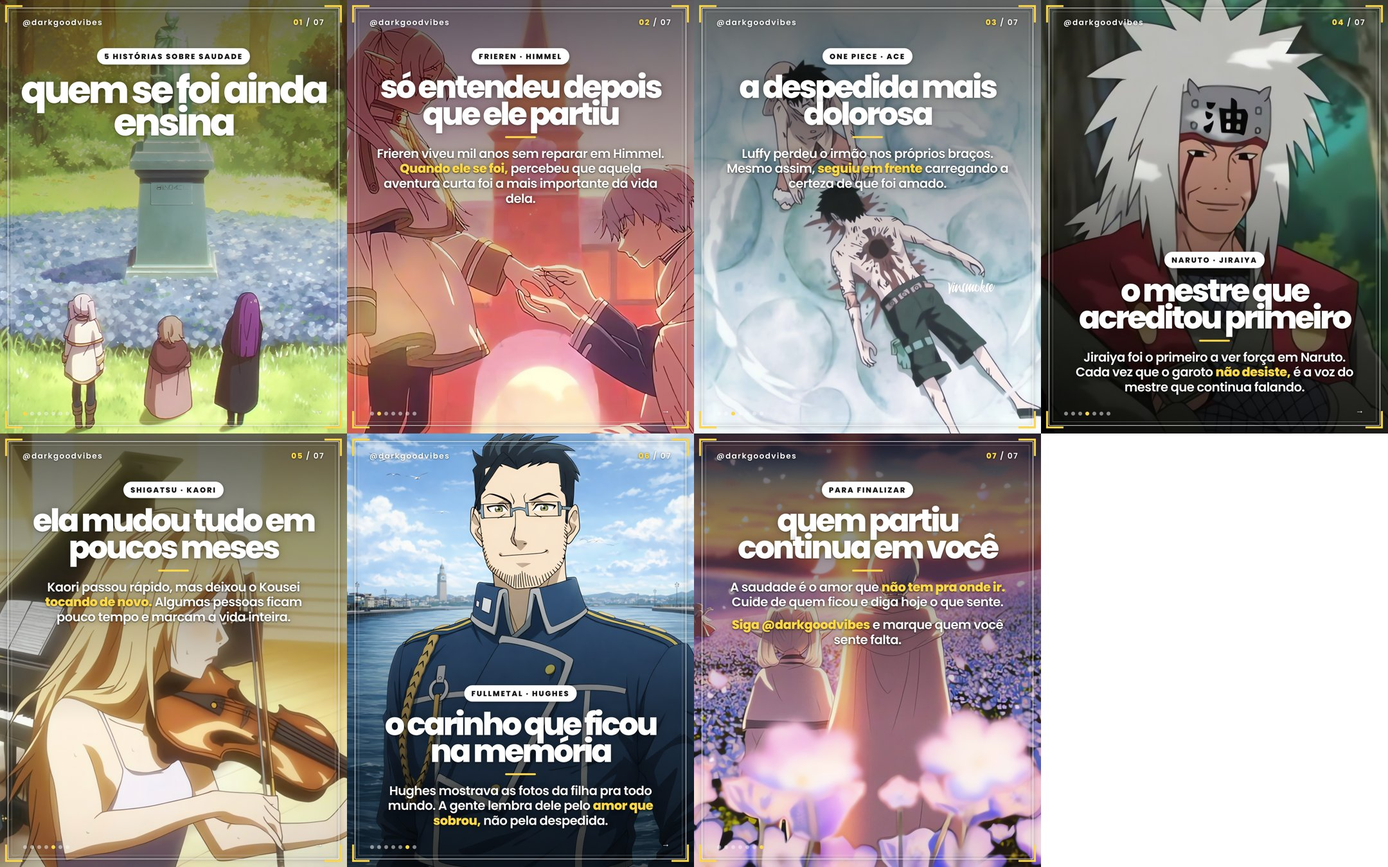
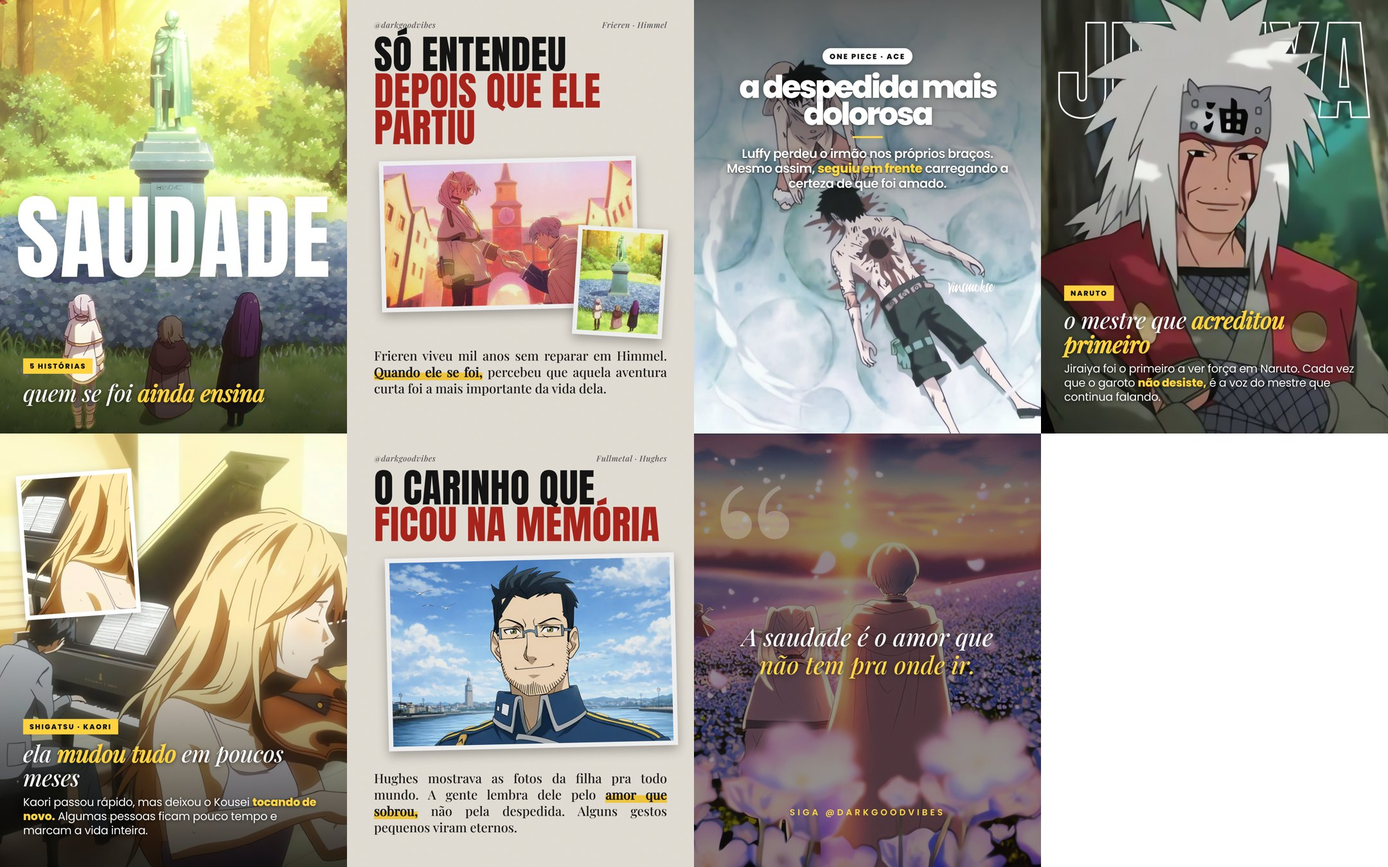
Layouts variados (fantasma, painel, quadro, frase) e rascunho 24/11 refeito
Claude-Session: https://claude.ai/code/session_01Dfr63gNG2gKdD9mBSqCAhu

diff --git a/posts/2026-11-24/carrossel.html b/posts/2026-11-24/carrossel.html
@@ -63,6 +63,32 @@ body{background:#777;display:flex;flex-direction:column;gap:40px;padding:40px;al
 .sr.rich .hl{font-size:98px}
 .sr.rich .bd{font:600 39px/1.2 Pp;letter-spacing:-.025em;margin-top:26px;padding:0 24px;text-shadow:0 2px 3px rgba(0,0,0,.6),0 0 16px rgba(0,0,0,.5)}
 .sr.rich .bd b{font-weight:800;color:#ffd23f}
+/* colagem: layouts variados (fantasma, painel, quadro, frase) */
+.gw{position:absolute;left:50%;transform:translateX(-50%);z-index:3;font:400 420px/.82 A;text-transform:uppercase;white-space:nowrap;color:#fff;letter-spacing:.01em;text-shadow:0 6px 40px rgba(0,0,0,.25)}
+.gw.ol{color:transparent;-webkit-text-stroke:5px #fff;text-shadow:none}
+.cshade{position:absolute;inset:0;z-index:2;background:linear-gradient(0deg,rgba(0,0,0,.8) 0%,rgba(0,0,0,.46) 30%,rgba(0,0,0,0) 56%)}
+.cshade.t{background:linear-gradient(180deg,rgba(0,0,0,.8) 0%,rgba(0,0,0,.46) 30%,rgba(0,0,0,0) 56%)}
+.ccap{position:absolute;left:72px;right:72px;bottom:92px;z-index:9;color:#fff}
+.ccap.t{bottom:auto;top:92px}
+.ctag{display:inline-block;background:#ffd23f;color:#111;font:800 22px Pp;letter-spacing:.16em;text-transform:uppercase;padding:8px 20px 7px;margin-bottom:20px}
+.ccap .hd{font:italic 500 72px/1.03 PF;letter-spacing:-.012em;text-shadow:0 2px 14px rgba(0,0,0,.6)}
+.ccap .bd{font:500 35px/1.26 Pp;letter-spacing:-.015em;margin-top:20px;text-shadow:0 2px 10px rgba(0,0,0,.7)}
+.ccap b{color:#ffd23f;font-weight:700}
+.cpan{background:#f1ece2;color:#151515}
+.cpan .pt{position:absolute;top:60px;left:84px;right:84px;display:flex;justify-content:space-between;font:italic 500 25px PF;letter-spacing:.04em;color:#555}
+.cpan .col{position:absolute;left:84px;right:84px;top:112px;bottom:70px;display:flex;flex-direction:column;gap:34px}
+.cpan .tt{font:400 124px/.92 A;text-transform:uppercase;letter-spacing:.005em}
+.cpan .tt b{color:#b3261e;font-weight:400}
+.fbox{position:relative;flex:none}
+.cfr{position:absolute;background:#fff;padding:14px;box-shadow:0 14px 34px rgba(0,0,0,.3);z-index:4}
+.cfr img{display:block;width:100%;height:100%;object-fit:cover}
+.cpan .tx{font:500 40px/1.27 PF;text-align:justify;hyphens:none;color:#1b1b1b}
+.cpan .tx b{font-weight:600;background:linear-gradient(transparent 56%,#ffd23f 56%)}
+.gm{mix-blend-mode:multiply!important;opacity:.35!important}
+.qm{position:absolute;top:40px;left:50px;font:400 640px/1 PF;color:rgba(255,255,255,.22);z-index:3}
+.qt{position:absolute;left:92px;right:92px;top:50%;transform:translateY(-50%);font:italic 500 76px/1.14 PF;text-align:center;color:#fff;z-index:5;text-shadow:0 3px 18px rgba(0,0,0,.6)}
+.qt b{color:#ffd23f;font-weight:500}
+.qa{position:absolute;left:0;right:0;bottom:150px;text-align:center;font:600 27px Pp;letter-spacing:.3em;text-transform:uppercase;color:#ffd23f;z-index:5}
 /* variante christversions: bloco justificado, sem cor */
 .v-cv .ln{font-size:56px;line-height:1.06;text-align:justify;text-align-last:left;letter-spacing:-.025em}
 .v-cv .ln b{color:#fff}
@@ -76,8 +102,14 @@ body{background:#777;display:flex;flex-direction:column;gap:40px;padding:40px;al
 .v-ps .ln{font:400 64px/1.08 A;text-transform:uppercase;letter-spacing:.005em}
 .v-ps .ln b{color:#ff5fa2;font-weight:400}
 .v-ps .tt{font-size:150px;line-height:.96}.v-ps .st{font:600 40px/1.2 T;text-transform:none}
-</style></head><body><section class="slide" id="s1"><img class="bg photo" src="work/img1.jpg"><div class="scrim"></div><div class="sr sr-top" data-pos="top"><div class="tag">5 histórias sobre saudade</div><div class="hl">quem se foi <b>ainda ensina</b></div></div><img class="bg fg" src="work/fg1.png" data-tops="1350,1350,1350,1350,1350,1350,1350,1350,1350,1350,1350,1350,1350,1350,1350,1350,1350,1350,1350,1350,1350,1350,1350,1350,1350,1350,1350,1350,1350,1350,1350,1350,1350,1350,1350,1350,1350,1350,1350,1350,1350,1350,1350,1350,1350,1350,1350,1350,1350,1097,1035,1023,1012,943,938,937,935,931,925,922,919,917,916,915,915,915,915,916,917,920,924,931,935,941,964,992,1002,1011,1023,1040,1051,1095,1350,1350,1350,1350,1350,1350,1350,1350,1350,1350,1350,1350,1350,1350,1350,1350,1350,1350,1350,1350,1350,1350,1350,1350,1350,1350,1350,1350,1350,1350,1350,1350,1350,1350,1350,1350,1350,1350,1350,1350,1350,1350,1350,1350,1350,1350,1350,1350,1350,1350,1350,1350,1350,1350,1350,1350,1350,1350,1350,1350,1350,1350,1350,1350,1350,1350,1350,1350,1350,1350,1350,1350,1350,1350,1350,1350,1350,1350,1350,1350,1350,1350,1350,1350,1350,1350,1350,1350,1350,1350,1350,1350,1350,1350,1350,1350,1350,1350,1350,1350,1350,1350,1350,1350,1350,1350,1350,1350,1350,1350,1350,1350,1350,1350,1350,1350,1350,1350,1350,1350,1350,1350,1350,1350,1350,1350,1350,1350,1350,1350,1350,1350,1350,1350,1350,1350,1350,1350,1350,1350,1350,1350,1350,1350,1350,1350,1350,1350,1350,1350,1350,1350,1350,1350,1350,1350,1350,1350,1350,1350,1350,1350,1350,1350,1350,1350,1350,1350,1350,1350,1350,1350,1350,1350,1350,1350,1350,1350,1350,1350,1350,1350,1350,1350,1350,1350,1350,1350"><div class="dec"><div class="fr"></div><div class="fr2"></div><div class="cn tl"></div><div class="cn tr"></div><div class="cn bl"></div><div class="cn br"></div><div class="tp"><span>@darkgoodvibes</span><span class="n"><b>01</b> / 07</span></div><div class="dots"><i class="on"></i><i></i><i></i><i></i><i></i><i></i><i></i></div><div class="nx">→</div></div><div class="grain"></div></section><section class="slide" id="s2"><img class="bg photo" src="work/img2.jpg"><div class="scrim"></div><div class="sr sr-top rich" data-pos="top"><div class="tag">Frieren · Himmel</div><div class="hl">só entendeu <b>depois que ele partiu</b></div><div class="dv"></div><div class="bd"><p>Frieren viveu mil anos sem reparar em Himmel. <b>Quando ele se foi,</b> percebeu que aquela aventura curta foi a mais importante da vida dela.</p></div></div><img class="bg fg" src="work/fg2.png" data-tops="195,186,181,171,165,158,151,145,141,135,130,126,123,120,115,111,106,101,97,96,95,79,80,82,80,81,87,94,101,99,97,96,95,94,93,92,91,90,89,89,88,87,87,86,86,85,85,86,86,87,87,88,89,90,92,93,95,97,99,101,104,106,108,111,114,118,121,125,129,133,138,143,149,154,161,172,194,198,202,206,210,215,220,225,230,237,244,255,640,645,648,652,655,660,724,727,729,732,734,737,740,742,742,740,739,738,738,738,741,744,746,749,751,754,757,759,761,763,765,767,769,771,772,774,776,778,781,785,791,799,803,806,809,812,814,817,820,823,825,828,830,832,833,833,833,832,831,829,827,827,828,830,830,830,830,830,830,829,828,828,827,827,826,825,825,825,826,826,826,826,827,828,830,831,832,834,836,837,838,839,840,840,841,844,851,859,869,879,889,899,907,915,921,927,930,930,927,925,927,633,618,609,601,594,589,585,583,580,577,574,572,576,570,565,561,557,552,548,545,544,542,541,544,548,540,534,531,529,527,525,524,523,521,520,520,520,518,513,513,513,512,512,512,513,513,514,515,516,515,515,514,514,514,514,515,515,516,524,527,529,531,533,536,538,541,544,548,552,556,560"><div class="dec"><div class="fr"></div><div class="fr2"></div><div class="cn tl"></div><div class="cn tr"></div><div class="cn bl"></div><div class="cn br"></div><div class="tp"><span>@darkgoodvibes</span><span class="n"><b>02</b> / 07</span></div><div class="dots"><i></i><i class="on"></i><i></i><i></i><i></i><i></i><i></i></div><div class="nx">→</div></div><div class="grain"></div></section><section class="slide" id="s3"><img class="bg photo" src="work/img3.jpg"><div class="scrim"></div><div class="sr sr-top rich" data-pos="top"><div class="tag">One Piece · Ace</div><div class="hl">a despedida <b>mais dolorosa</b></div><div class="dv"></div><div class="bd"><p>Luffy perdeu o irmão nos próprios braços. Mesmo assim, <b>seguiu em frente</b> carregando a certeza de que foi amado.</p></div></div><img class="bg fg" src="work/fg3.png" data-tops="1350,1350,1350,1350,1350,1350,1350,1350,1350,1350,1350,1350,1350,1350,1350,1350,1350,1350,1350,1350,1350,1350,1350,1350,1350,1350,1350,1350,1350,1350,1350,1350,1350,1350,1350,1350,1350,1350,1350,1350,1350,1350,1350,1350,1350,1350,1350,1350,1350,1350,1350,1350,1350,1350,335,241,229,222,217,213,209,205,202,199,197,195,194,193,192,192,192,192,192,193,194,196,198,201,204,208,208,203,198,194,191,187,203,203,202,202,201,201,201,202,208,209,209,209,210,210,211,212,212,239,241,244,247,249,269,278,287,295,302,308,315,321,328,335,342,348,355,361,369,381,403,426,449,456,460,463,467,471,475,478,482,484,485,488,491,502,524,631,630,630,673,673,673,673,673,673,673,673,673,673,674,675,676,678,680,682,685,688,692,696,699,700,701,701,702,703,704,706,707,709,711,714,716,719,721,724,727,730,733,736,739,741,743,745,746,747,748,750,751,753,754,755,757,758,760,763,765,767,769,772,774,777,779,781,783,785,786,788,790,792,794,796,799,801,804,807,810,813,816,820,825,832,845,1065,1093,898,904,885,885,890,1129,1135,1141,1147,1153,1159,1164,1170,1176,1181,1187,1193,1198,1204,1211,1216,1219,1224,1229,1234,1238,1242,1245,1248,1250,1252,1254,1255,1257,1259,1260,1262,1264,1265,1267,1270"><div class="dec"><div class="fr"></div><div class="fr2"></div><div class="cn tl"></div><div class="cn tr"></div><div class="cn bl"></div><div class="cn br"></div><div class="tp"><span>@darkgoodvibes</span><span class="n"><b>03</b> / 07</span></div><div class="dots"><i></i><i></i><i class="on"></i><i></i><i></i><i></i><i></i></div><div class="nx">→</div></div><div class="grain"></div></section><section class="slide" id="s4"><img class="bg photo" src="work/img4.jpg"><div class="scrim sb"></div><div class="sr sr-bottom rich" data-pos="bottom"><div class="tag">Naruto · Jiraiya</div><div class="hl">o mestre que <b>acreditou primeiro</b></div><div class="dv"></div><div class="bd"><p>Jiraiya foi o primeiro a ver força em Naruto. Cada vez que o garoto <b>não desiste,</b> é a voz do mestre que continua falando.</p></div></div><img class="bg fg" src="work/fg4.png" data-tops="802,798,794,792,788,784,781,779,777,775,776,775,774,773,772,770,769,768,767,700,700,763,762,701,700,699,697,696,695,694,693,692,692,693,415,407,237,234,231,229,226,224,221,218,216,213,211,208,206,204,202,200,198,195,193,192,189,187,185,183,181,179,177,175,70,70,70,70,71,71,71,71,70,70,70,71,70,70,70,70,71,71,71,72,73,73,74,74,74,75,76,76,77,78,0,0,0,2,4,6,8,10,11,12,14,15,17,19,20,23,25,28,30,33,35,38,40,42,45,47,51,54,59,61,57,44,31,18,7,0,0,0,0,0,0,0,0,0,0,0,0,2,11,20,31,41,52,60,62,60,57,54,51,48,45,43,40,37,34,31,28,26,23,20,18,16,13,11,9,7,4,2,0,0,0,0,103,102,101,100,100,99,98,97,96,95,94,93,92,92,90,90,88,87,87,85,85,84,83,82,81,81,79,167,167,166,166,166,166,166,165,165,165,165,166,166,167,167,168,168,292,297,303,308,314,320,831,833,835,837,839,841,843,845,847,850,852,854,856,858,860,862,864,866,868,871,874,881,955,963,972,981,992,1003,1015,1026,1038,1052,1071,1084,1092,1099,1104,1109,1115,1120,1127,1135,1143,1150"><div class="dec"><div class="fr"></div><div class="fr2"></div><div class="cn tl"></div><div class="cn tr"></div><div class="cn bl"></div><div class="cn br"></div><div class="tp"><span>@darkgoodvibes</span><span class="n"><b>04</b> / 07</span></div><div class="dots"><i></i><i></i><i></i><i class="on"></i><i></i><i></i><i></i></div><div class="nx">→</div></div><div class="grain"></div></section><section class="slide" id="s5"><img class="bg photo" src="work/img5.jpg"><div class="scrim"></div><div class="sr sr-top rich" data-pos="top"><div class="tag">Shigatsu · Kaori</div><div class="hl">ela <b>mudou tudo</b> em poucos meses</div><div class="dv"></div><div class="bd"><p>Kaori passou rápido, mas deixou o Kousei <b>tocando de novo.</b> Algumas pessoas ficam pouco tempo e marcam a vida inteira.</p></div></div><img class="bg fg" src="work/fg5.png" data-tops="467,463,459,454,450,446,441,437,433,429,425,421,416,412,407,403,399,395,391,387,382,378,374,369,365,361,357,352,348,344,340,335,331,327,323,318,314,310,306,302,298,293,289,285,280,276,272,268,264,259,255,251,246,242,238,234,230,225,221,217,213,209,204,200,196,192,187,183,179,175,171,166,162,157,153,149,145,141,137,132,128,124,120,116,111,107,103,98,94,90,85,80,74,70,66,62,57,55,55,55,56,56,57,58,58,58,59,60,61,61,61,62,62,63,63,64,64,65,66,66,66,67,67,68,68,69,69,70,70,71,71,72,72,73,74,74,74,75,75,76,76,77,79,241,243,245,247,250,252,254,257,259,261,263,265,267,269,271,272,274,276,278,279,281,282,284,286,287,290,292,296,299,303,305,306,307,308,308,309,310,311,311,312,313,314,315,316,317,318,319,321,323,325,329,435,433,431,432,452,494,530,563,569,569,567,740,779,818,858,864,866,867,869,870,870,869,867,844,844,846,849,852,856,858,861,862,864,865,866,867,868,868,869,870,871,872,873,875,876,877,879,881,882,884,886,888,891,893,897,900,903,907,911,915,920,924,929,934,939,945,952,960,970,981,992,996,999,1002,1004,1006"><div class="dec"><div class="fr"></div><div class="fr2"></div><div class="cn tl"></div><div class="cn tr"></div><div class="cn bl"></div><div class="cn br"></div><div class="tp"><span>@darkgoodvibes</span><span class="n"><b>05</b> / 07</span></div><div class="dots"><i></i><i></i><i></i><i></i><i class="on"></i><i></i><i></i></div><div class="nx">→</div></div><div class="grain"></div></section><section class="slide" id="s6"><img class="bg photo" src="work/img6.jpg"><div class="scrim sb"></div><div class="sr sr-bottom rich" data-pos="bottom"><div class="tag">Fullmetal · Hughes</div><div class="hl">o carinho que <b>ficou na memória</b></div><div class="dv"></div><div class="bd"><p>Hughes mostrava as fotos da filha pra todo mundo. A gente lembra dele pelo <b>amor que sobrou,</b> não pela despedida.</p></div></div><img class="bg fg" src="work/fg6.png" data-tops="1350,1350,1350,1350,1350,1350,1350,1350,1350,1350,1350,1350,1350,1350,1350,1350,1350,1350,1350,1350,1350,1350,1350,1194,1176,1158,1136,1108,879,871,864,810,767,743,726,712,700,689,680,671,666,662,659,654,650,648,645,641,638,635,632,628,624,622,620,618,617,616,616,616,617,616,614,613,612,611,611,609,606,604,602,600,599,597,596,596,595,595,595,595,596,596,595,593,589,585,583,581,580,579,577,576,575,574,574,575,256,232,51,56,59,63,65,67,70,70,41,36,32,28,24,21,17,14,11,7,4,0,0,0,0,0,0,0,0,0,0,0,1,0,0,0,0,0,0,0,0,0,0,0,0,0,0,0,0,0,0,13,13,12,11,10,10,9,9,8,8,8,7,7,7,7,0,0,0,33,34,35,36,37,38,40,42,44,46,48,51,95,101,109,117,281,498,509,520,531,538,542,547,550,551,552,553,555,556,556,554,554,555,557,558,559,561,563,564,566,568,569,571,575,577,579,580,580,581,583,584,582,581,581,588,589,590,591,591,592,594,594,595,596,596,596,600,600,602,602,600,599,600,600,602,603,604,605,607,609,610,612,616,622,625,628,631,637,641,644,647,651,652,652,651,652,653,653,654,656,660,666,673,681"><div class="dec"><div class="fr"></div><div class="fr2"></div><div class="cn tl"></div><div class="cn tr"></div><div class="cn bl"></div><div class="cn br"></div><div class="tp"><span>@darkgoodvibes</span><span class="n"><b>06</b> / 07</span></div><div class="dots"><i></i><i></i><i></i><i></i><i></i><i class="on"></i><i></i></div><div class="nx">→</div></div><div class="grain"></div></section><section class="slide" id="s7"><img class="bg photo" src="work/img7.jpg"><div class="scrim"></div><div class="sr sr-top rich" data-pos="top"><div class="tag">Para finalizar</div><div class="hl">quem partiu <b>continua em você</b></div><div class="dv"></div><div class="bd"><p>A saudade é o amor que <b>não tem pra onde ir.</b> Cuide de quem ficou e diga hoje o que sente.</p><p><b>Siga @darkgoodvibes</b> e marque quem você sente falta.</p></div></div><img class="bg fg" src="work/fg7.png" data-tops="872,873,859,858,859,857,856,867,868,869,870,871,873,873,875,875,881,881,888,898,902,906,908,915,916,961,984,965,983,991,981,992,989,1009,1007,1004,1001,916,892,871,855,845,835,824,610,611,611,612,612,612,613,613,613,614,612,596,575,557,545,541,539,539,541,543,546,546,543,541,540,539,538,537,536,536,535,535,535,535,535,535,535,536,537,538,540,543,545,543,540,538,536,535,535,537,542,552,565,586,612,613,613,612,612,611,610,610,609,608,809,816,807,792,776,752,705,597,583,579,576,572,567,561,555,549,543,538,535,534,533,532,532,531,530,527,525,413,399,388,380,373,367,362,358,354,351,349,347,345,343,342,341,340,340,340,340,340,340,340,340,340,341,342,343,345,347,349,352,355,359,363,367,371,377,384,393,407,530,531,531,532,532,533,534,535,536,537,541,546,557,570,575,576,578,581,602,617,762,784,801,832,852,865,869,869,867,864,862,859,854,849,845,841,840,843,848,852,856,860,862,862,862,864,866,871,875,878,882,886,889,891,893,893,892,892,892,893,892,891,891,890,888,886,883,882,880,877,871,868,855,850,845,844,845,853,857,861,865,865,863,863,864,865,867,868,869,869,871,874,901,901"><div class="dec"><div class="fr"></div><div class="fr2"></div><div class="cn tl"></div><div class="cn tr"></div><div class="cn bl"></div><div class="cn br"></div><div class="tp"><span>@darkgoodvibes</span><span class="n"><b>07</b> / 07</span></div><div class="dots"><i></i><i></i><i></i><i></i><i></i><i></i><i class="on"></i></div></div><div class="grain"></div></section><script>
-document.fonts.ready.then(()=>{document.querySelectorAll('section').forEach(sec=>{
+</style></head><body><section class="slide" id="s1"><img class="bg photo" src="work/img1.jpg"><div class="cshade"></div><div class="gw">saudade</div><img class="bg fg" src="work/fg1.png" data-tops="1350,1350,1350,1350,1350,1350,1350,1350,1350,1350,1350,1350,1350,1350,1350,1350,1350,1350,1350,1350,1350,1350,1350,1350,1350,1350,1350,1350,1350,1350,1350,1350,1350,1350,1350,1350,1350,1350,1350,1350,1350,1350,1350,1350,1350,1350,1350,1350,1350,1097,1035,1023,1012,943,938,937,935,931,925,922,919,917,916,915,915,915,915,916,917,920,924,931,935,941,964,992,1002,1011,1023,1040,1051,1095,1350,1350,1350,1350,1350,1350,1350,1350,1350,1350,1350,1350,1350,1350,1350,1350,1350,1350,1350,1350,1350,1350,1350,1350,1350,1350,1350,1350,1350,1350,1350,1350,1350,1350,1350,1350,1350,1350,1350,1350,1350,1350,1350,1350,1350,1350,1350,1350,1350,1350,1350,1350,1350,1350,1350,1350,1350,1350,1350,1350,1350,1350,1350,1350,1350,1350,1350,1350,1350,1350,1350,1350,1350,1350,1350,1350,1350,1350,1350,1350,1350,1350,1350,1350,1350,1350,1350,1350,1350,1350,1350,1350,1350,1350,1350,1350,1350,1350,1350,1350,1350,1350,1350,1350,1350,1350,1350,1350,1350,1350,1350,1350,1350,1350,1350,1350,1350,1350,1350,1350,1350,1350,1350,1350,1350,1350,1350,1350,1350,1350,1350,1350,1350,1350,1350,1350,1350,1350,1350,1350,1350,1350,1350,1350,1350,1350,1350,1350,1350,1350,1350,1350,1350,1350,1350,1350,1350,1350,1350,1350,1350,1350,1350,1350,1350,1350,1350,1350,1350,1350,1350,1350,1350,1350,1350,1350,1350,1350,1350,1350,1350,1350,1350,1350,1350,1350,1350,1350"><div class="ccap"><div class="ctag">5 histórias</div><div class="hd">quem se foi <b>ainda ensina</b></div></div><div class="grain"></div></section><section class="slide cpan" id="s2"><div class="pt"><span>@darkgoodvibes</span><span>Frieren · Himmel</span></div><div class="col"><div class="tt">só entendeu <b>depois que ele partiu</b></div><div class="fbox" style="height:560px"><div class="cfr" style="left:20px;top:6px;width:800px;height:470px;transform:rotate(-1.3deg)"><img src="work/p2a.jpg"></div><div class="cfr" style="right:6px;top:220px;width:280px;height:340px;transform:rotate(3.5deg)"><img src="work/p2b.jpg"></div></div><div class="tx">Frieren viveu mil anos sem reparar em Himmel. <b>Quando ele se foi,</b> percebeu que aquela aventura curta foi a mais importante da vida dela.</div></div><div class="grain gm"></div></section><section class="slide" id="s3"><img class="bg photo" src="work/img3.jpg"><div class="scrim"></div><div class="sr sr-top rich" data-pos="top"><div class="tag">One Piece · Ace</div><div class="hl">a despedida <b>mais dolorosa</b></div><div class="dv"></div><div class="bd"><p>Luffy perdeu o irmão nos próprios braços. Mesmo assim, <b>seguiu em frente</b> carregando a certeza de que foi amado.</p></div></div><img class="bg fg" src="work/fg3.png" data-tops="1350,1350,1350,1350,1350,1350,1350,1350,1350,1350,1350,1350,1350,1350,1350,1350,1350,1350,1350,1350,1350,1350,1350,1350,1350,1350,1350,1350,1350,1350,1350,1350,1350,1350,1350,1350,1350,1350,1350,1350,1350,1350,1350,1350,1350,1350,1350,1350,1350,1350,1350,1350,1350,1350,335,241,229,222,217,213,209,205,202,199,197,195,194,193,192,192,192,192,192,193,194,196,198,201,204,208,208,203,198,194,191,187,203,203,202,202,201,201,201,202,208,209,209,209,210,210,211,212,212,239,241,244,247,249,269,278,287,295,302,308,315,321,328,335,342,348,355,361,369,381,403,426,449,456,460,463,467,471,475,478,482,484,485,488,491,502,524,631,630,630,673,673,673,673,673,673,673,673,673,673,674,675,676,678,680,682,685,688,692,696,699,700,701,701,702,703,704,706,707,709,711,714,716,719,721,724,727,730,733,736,739,741,743,745,746,747,748,750,751,753,754,755,757,758,760,763,765,767,769,772,774,777,779,781,783,785,786,788,790,792,794,796,799,801,804,807,810,813,816,820,825,832,845,1065,1093,898,904,885,885,890,1129,1135,1141,1147,1153,1159,1164,1170,1176,1181,1187,1193,1198,1204,1211,1216,1219,1224,1229,1234,1238,1242,1245,1248,1250,1252,1254,1255,1257,1259,1260,1262,1264,1265,1267,1270"><div class="grain"></div></section><section class="slide" id="s4"><img class="bg photo" src="work/img4.jpg"><div class="cshade"></div><div class="gw ol">jiraiya</div><img class="bg fg" src="work/fg4.png" data-tops="802,798,794,792,788,784,781,779,777,775,776,775,774,773,772,770,769,768,767,700,700,763,762,701,700,699,697,696,695,694,693,692,692,693,415,407,237,234,231,229,226,224,221,218,216,213,211,208,206,204,202,200,198,195,193,192,189,187,185,183,181,179,177,175,70,70,70,70,71,71,71,71,70,70,70,71,70,70,70,70,71,71,71,72,73,73,74,74,74,75,76,76,77,78,0,0,0,2,4,6,8,10,11,12,14,15,17,19,20,23,25,28,30,33,35,38,40,42,45,47,51,54,59,61,57,44,31,18,7,0,0,0,0,0,0,0,0,0,0,0,0,2,11,20,31,41,52,60,62,60,57,54,51,48,45,43,40,37,34,31,28,26,23,20,18,16,13,11,9,7,4,2,0,0,0,0,103,102,101,100,100,99,98,97,96,95,94,93,92,92,90,90,88,87,87,85,85,84,83,82,81,81,79,167,167,166,166,166,166,166,165,165,165,165,166,166,167,167,168,168,292,297,303,308,314,320,831,833,835,837,839,841,843,845,847,850,852,854,856,858,860,862,864,866,868,871,874,881,955,963,972,981,992,1003,1015,1026,1038,1052,1071,1084,1092,1099,1104,1109,1115,1120,1127,1135,1143,1150"><div class="ccap"><div class="ctag">Naruto</div><div class="hd">o mestre que <b>acreditou primeiro</b></div><div class="bd">Jiraiya foi o primeiro a ver força em Naruto. Cada vez que o garoto <b>não desiste,</b> é a voz do mestre que continua falando.</div></div><div class="grain"></div></section><section class="slide" id="s5"><img class="bg photo" src="work/img5.jpg"><div class="cshade"></div><div class="cfr" style="top:120px;left:64px;width:360px;height:450px;transform:rotate(-4deg);z-index:6"><img src="work/q5.jpg"></div><div class="ccap"><div class="ctag">Shigatsu · Kaori</div><div class="hd">ela <b>mudou tudo</b> em poucos meses</div><div class="bd">Kaori passou rápido, mas deixou o Kousei <b>tocando de novo.</b> Algumas pessoas ficam pouco tempo e marcam a vida inteira.</div></div><div class="grain"></div></section><section class="slide cpan" id="s6"><div class="pt"><span>@darkgoodvibes</span><span>Fullmetal · Hughes</span></div><div class="col"><div class="tt">o carinho que <b>ficou na memória</b></div><div class="fbox" style="height:640px"><div class="cfr" style="left:40px;top:6px;width:900px;height:600px;transform:rotate(-1.3deg)"><img src="work/p6a.jpg"></div></div><div class="tx">Hughes mostrava as fotos da filha pra todo mundo. A gente lembra dele pelo <b>amor que sobrou,</b> não pela despedida. Alguns gestos pequenos viram eternos.</div></div><div class="grain gm"></div></section><section class="slide" id="s7"><img class="bg photo" src="work/img7.jpg" style="filter:brightness(.52) saturate(.9)"><div class="qm">&ldquo;</div><div class="qt">A saudade é o amor que <b>não tem pra onde ir.</b></div><div class="qa">Siga @darkgoodvibes</div><div class="grain"></div></section><script>
+document.fonts.ready.then(()=>{document.querySelectorAll('.gw').forEach(g=>{
+ const sec=g.closest('section'), fg=sec.querySelector('.fg'); let fs=420; g.style.fontSize=fs+'px';
+ fs=Math.max(170,Math.min(600,fs*980/g.offsetWidth)); g.style.fontSize=fs+'px';
+ const h=g.offsetHeight; let top=200;
+ if(fg){const tp=fg.dataset.tops.split(',').map(Number).slice(38,232); const ct=Math.min(...tp); top=Math.max(80,Math.min(620,ct-h*0.5));}
+ g.style.top=top+'px';});
+ document.querySelectorAll('section').forEach(sec=>{
  const fg=sec.querySelector('.fg'), tx=sec.querySelector('.sr'); if(!fg||!tx) return;
  if(tx.dataset.pos!=='top'){fg.remove();return;}
  const tops=fg.dataset.tops.split(',').map(Number);

diff --git a/tools/build.py b/tools/build.py
@@ -167,6 +167,32 @@ body{background:#777;display:flex;flex-direction:column;gap:40px;padding:40px;al
 .sr.rich .hl{font-size:98px}
 .sr.rich .bd{font:600 39px/1.2 Pp;letter-spacing:-.025em;margin-top:26px;padding:0 24px;text-shadow:0 2px 3px rgba(0,0,0,.6),0 0 16px rgba(0,0,0,.5)}
 .sr.rich .bd b{font-weight:800;color:#ffd23f}
+/* colagem: layouts variados (fantasma, painel, quadro, frase) */
+.gw{position:absolute;left:50%;transform:translateX(-50%);z-index:3;font:400 420px/.82 A;text-transform:uppercase;white-space:nowrap;color:#fff;letter-spacing:.01em;text-shadow:0 6px 40px rgba(0,0,0,.25)}
+.gw.ol{color:transparent;-webkit-text-stroke:5px #fff;text-shadow:none}
+.cshade{position:absolute;inset:0;z-index:2;background:linear-gradient(0deg,rgba(0,0,0,.8) 0%,rgba(0,0,0,.46) 30%,rgba(0,0,0,0) 56%)}
+.cshade.t{background:linear-gradient(180deg,rgba(0,0,0,.8) 0%,rgba(0,0,0,.46) 30%,rgba(0,0,0,0) 56%)}
+.ccap{position:absolute;left:72px;right:72px;bottom:92px;z-index:9;color:#fff}
+.ccap.t{bottom:auto;top:92px}
+.ctag{display:inline-block;background:#ffd23f;color:#111;font:800 22px Pp;letter-spacing:.16em;text-transform:uppercase;padding:8px 20px 7px;margin-bottom:20px}
+.ccap .hd{font:italic 500 72px/1.03 PF;letter-spacing:-.012em;text-shadow:0 2px 14px rgba(0,0,0,.6)}
+.ccap .bd{font:500 35px/1.26 Pp;letter-spacing:-.015em;margin-top:20px;text-shadow:0 2px 10px rgba(0,0,0,.7)}
+.ccap b{color:#ffd23f;font-weight:700}
+.cpan{background:#f1ece2;color:#151515}
+.cpan .pt{position:absolute;top:60px;left:84px;right:84px;display:flex;justify-content:space-between;font:italic 500 25px PF;letter-spacing:.04em;color:#555}
+.cpan .col{position:absolute;left:84px;right:84px;top:112px;bottom:70px;display:flex;flex-direction:column;gap:34px}
+.cpan .tt{font:400 124px/.92 A;text-transform:uppercase;letter-spacing:.005em}
+.cpan .tt b{color:#b3261e;font-weight:400}
+.fbox{position:relative;flex:none}
+.cfr{position:absolute;background:#fff;padding:14px;box-shadow:0 14px 34px rgba(0,0,0,.3);z-index:4}
+.cfr img{display:block;width:100%;height:100%;object-fit:cover}
+.cpan .tx{font:500 40px/1.27 PF;text-align:justify;hyphens:none;color:#1b1b1b}
+.cpan .tx b{font-weight:600;background:linear-gradient(transparent 56%,#ffd23f 56%)}
+.gm{mix-blend-mode:multiply!important;opacity:.35!important}
+.qm{position:absolute;top:40px;left:50px;font:400 640px/1 PF;color:rgba(255,255,255,.22);z-index:3}
+.qt{position:absolute;left:92px;right:92px;top:50%;transform:translateY(-50%);font:italic 500 76px/1.14 PF;text-align:center;color:#fff;z-index:5;text-shadow:0 3px 18px rgba(0,0,0,.6)}
+.qt b{color:#ffd23f;font-weight:500}
+.qa{position:absolute;left:0;right:0;bottom:150px;text-align:center;font:600 27px Pp;letter-spacing:.3em;text-transform:uppercase;color:#ffd23f;z-index:5}
 /* variante christversions: bloco justificado, sem cor */
 .v-cv .ln{font-size:56px;line-height:1.06;text-align:justify;text-align-last:left;letter-spacing:-.025em}
 .v-cv .ln b{color:#fff}
@@ -182,6 +208,68 @@ body{background:#777;display:flex;flex-direction:column;gap:40px;padding:40px;al
 .v-ps .tt{font-size:150px;line-height:.96}.v-ps .st{font:600 40px/1.2 T;text-transform:none}
 """
 
+def prep_ar(src, key, d, W, H, fx=.5, fy=.5, zoom=1.0, zx=.5, zy=.35):
+    """Recorta/amplia uma imagem para um quadro WxH (usado nos layouts de colagem)."""
+    raw = f'{d}/work/{key}_raw'
+    fetch(src, raw)
+    im = trim_bars(Image.open(raw).convert('RGB'))
+    c = crop(im, W / H, fx, fy)
+    if zoom > 1:
+        cw, ch = c.size; w2, h2 = cw / zoom, ch / zoom
+        l, tp = (cw - w2) * zx, (ch - h2) * zy
+        c = c.crop((round(l), round(tp), round(l + w2), round(tp + h2)))
+    c.save(f'{d}/work/{key}_c.png')
+    upscale_to(f'{d}/work/{key}_c.png', f'{d}/work/{key}_u.png', H)
+    Image.open(f'{d}/work/{key}_u.png').convert('RGB').resize((W, H), Image.LANCZOS).save(f'{d}/work/{key}.jpg', quality=92)
+    return f'work/{key}.jpg'
+
+
+def render_collage(lay, s, i, d, handle, rich, n):
+    def caption():
+        if not (s.get('head') or s.get('body') or s.get('tag')):
+            return ''
+        pos = ' t' if s.get('pos') == 'top' else ''
+        return (f'<div class="ccap{pos}">' + (f'<div class="ctag">{html.escape(s["tag"])}</div>' if s.get('tag') else '')
+                + (f'<div class="hd">{rich(s["head"])}</div>' if s.get('head') else '')
+                + (f'<div class="bd">{rich(s["body"])}</div>' if s.get('body') else '') + '</div>')
+    shade = '<div class="cshade t"></div>' if s.get('pos') == 'top' else '<div class="cshade"></div>'
+    if lay == 'fantasma':
+        mode, img, fill = prepare(dict(s, mode='full'), i, d)
+        tops = cutout(f'{d}/{img}', f'{d}/work/fg{i}.png')
+        fg = f'<img class="bg fg" src="work/fg{i}.png" data-tops="{tops}">' if tops else ''
+        cls = 'gw ol' if s.get('outline') else 'gw'
+        col = f' style="color:{s["wcolor"]}"' if s.get('wcolor') and not s.get('outline') else ''
+        return (f'<section class="slide" id="s{i}"><img class="bg photo" src="{img}">{shade}'
+                f'<div class="{cls}"{col}>{html.escape(s.get("word", ""))}</div>{fg}{caption()}<div class="grain"></div></section>')
+    if lay == 'painel':
+        two = bool(s.get('src2'))
+        w1, h1 = (800, 470) if two else (900, 600)
+        a = prep_ar(s['src'], f'p{i}a', d, int(w1 * 1.5), int(h1 * 1.5), s.get('fx', .5), s.get('fy', .5))
+        fr = (f'<div class="fbox" style="height:{h1 + (90 if two else 40)}px"><div class="cfr" style="left:{20 if two else 40}px;top:6px;'
+              f'width:{w1}px;height:{h1}px;transform:rotate(-1.3deg)"><img src="{a}"></div>')
+        if two:
+            b = prep_ar(s['src2'], f'p{i}b', d, 420, 510, s.get('fx2', .5), s.get('fy2', .5))
+            fr += (f'<div class="cfr" style="right:6px;top:{h1 - 250}px;width:280px;height:340px;transform:rotate(3.5deg)"><img src="{b}"></div>')
+        fr += '</div>'
+        return (f'<section class="slide cpan" id="s{i}"><div class="pt"><span>{handle}</span><span>{html.escape(s.get("tag", ""))}</span></div>'
+                f'<div class="col"><div class="tt">{rich(s.get("head", ""))}</div>{fr}<div class="tx">{rich(s.get("body", ""))}</div></div>'
+                f'<div class="grain gm"></div></section>')
+    if lay == 'quadro':
+        mode, img, fill = prepare(dict(s, mode='full'), i, d)
+        side = s.get('side', 'right')
+        src2 = s.get('src2') or s['src']
+        ins = prep_ar(src2, f'q{i}', d, 600, 750, s.get('fx2', .5), s.get('fy2', .35), zoom=(1.0 if s.get('src2') else s.get('zoom', 2.0)),
+                      zx=s.get('zx', .5), zy=s.get('zy', .35))
+        rot = 4 if side == 'right' else -4
+        return (f'<section class="slide" id="s{i}"><img class="bg photo" src="{img}">{shade}'
+                f'<div class="cfr" style="top:120px;{side}:64px;width:360px;height:450px;transform:rotate({rot}deg);z-index:6"><img src="{ins}"></div>'
+                f'{caption()}<div class="grain"></div></section>')
+    # frase
+    mode, img, fill = prepare(dict(s, mode='full'), i, d)
+    return (f'<section class="slide" id="s{i}"><img class="bg photo" src="{img}" style="filter:brightness(.52) saturate(.9)">'
+            f'<div class="qm">&ldquo;</div><div class="qt">{rich(s["text"])}</div><div class="qa">{html.escape(s.get("autor", ""))}</div><div class="grain"></div></section>')
+
+
 def main(d):
     d = os.path.abspath(d)
     spec = json.load(open(f'{d}/spec.json'))
@@ -195,6 +283,9 @@ def main(d):
         out = html.escape(txt).split('**')
         return ''.join(f'<b>{x}</b>' if k % 2 else x for k, x in enumerate(out))
     for i, s in enumerate(spec['slides'], 1):
+        if s.get('layout') in ('fantasma', 'painel', 'quadro', 'frase'):
+            parts.append(render_collage(s['layout'], s, i, d, handle, rich, len(spec['slides'])))
+            continue
         if estilo == 'serie':
             mode, img, fill = prepare(dict(s, mode='full'), i, d)
             fg = ''
@@ -204,7 +295,7 @@ def main(d):
                     fg = f'<img class="bg fg" src="work/fg{i}.png" data-tops="{top}">'
             pos = {'top': 'sr-top', 'mid': 'sr-mid', 'bottom': 'sr-bottom'}.get(s.get('pos', 'top'), 'sr-top')
             k = s.get('kicker', spec.get('kicker', ''))
-            decor = spec.get('decor', cfg.get('decor', True))
+            decor = s.get('moldura', spec.get('decor', cfg.get('decor', False)))
             nslides = len(spec['slides'])
             inner = (f'<div class="lg">{handle}</div>' if (i == 1 and not decor) else '')
             inner += (f'<div class="tag">{html.escape(s["tag"])}</div>' if s.get('tag') else '')
@@ -221,7 +312,7 @@ def main(d):
                        f'<div class="dots">{dots}</div>' + ('<div class="nx">→</div>' if i < nslides else '') + '</div>')
             rich_cls = ' rich' if s.get('body') else ''
             parts.append(f'<section class="slide" id="s{i}"><img class="bg photo" src="{img}">'
-                         + (f'<div class="scrim{" sb" if s.get("pos") == "bottom" else ""}"></div>' if decor else '') +
+                         + (f'<div class="scrim{" sb" if s.get("pos") == "bottom" else ""}"></div>' if (decor or s.get('body')) else '') +
                          f'<div class="sr {pos}{rich_cls}" data-pos="{s.get("pos", "top")}">{inner}</div>{fg}{dec}<div class="grain"></div></section>')
             continue
         if estilo == 'tarja':
@@ -249,7 +340,13 @@ def main(d):
                     f'<div class="p">{html.escape(s["text"])}</div></div>')
         parts.append(f'<section class="slide" id="s{i}">{bg}<div class="wash"></div>{body}<div class="grain"></div></section>')
     script = """<script>
-document.fonts.ready.then(()=>{document.querySelectorAll('section').forEach(sec=>{
+document.fonts.ready.then(()=>{document.querySelectorAll('.gw').forEach(g=>{
+ const sec=g.closest('section'), fg=sec.querySelector('.fg'); let fs=420; g.style.fontSize=fs+'px';
+ fs=Math.max(170,Math.min(600,fs*980/g.offsetWidth)); g.style.fontSize=fs+'px';
+ const h=g.offsetHeight; let top=200;
+ if(fg){const tp=fg.dataset.tops.split(',').map(Number).slice(38,232); const ct=Math.min(...tp); top=Math.max(80,Math.min(620,ct-h*0.5));}
+ g.style.top=top+'px';});
+ document.querySelectorAll('section').forEach(sec=>{
  const fg=sec.querySelector('.fg'), tx=sec.querySelector('.sr'); if(!fg||!tx) return;
  if(tx.dataset.pos!=='top'){fg.remove();return;}
  const tops=fg.dataset.tops.split(',').map(Number);

diff --git a/PLAYBOOK.md b/PLAYBOOK.md
@@ -48,6 +48,22 @@ dois posts seguidos com a mesma palavra no gancho. Formatos (todos usam o mesmo 
 Em cada formato o último slide fecha com virada + "Siga @darkgoodvibes". Registre o formato usado em `history.json` (`"formato"`).
 Mude também o comprimento: posts de 5, 6, 7 ou 8 slides.
 
+## 2-ter. LAYOUTS VARIADOS (pedido do dono: nada de moldura/enfeite igual em todos os slides)
+Cada slide escolhe um `"layout"` no spec. **Misture pelo menos 3 layouts diferentes por post** e nunca use o mesmo
+layout em mais de 2 slides seguidos. A moldura de cantos (`"moldura": true`) só pode aparecer em NO MÁXIMO 1 slide por post.
+- `"fantasma"`: imagem inteira + **palavra gigante atrás do personagem** (`"word": "saudade"`, `"outline": true` deixa só
+  o contorno, `"wcolor"` muda a cor). O personagem recortado passa NA FRENTE das letras. Legenda embaixo
+  (`tag`, `head`, `body`; `"pos": "top"` leva para cima). Use em capas e em imagens com personagem grande no centro.
+- `"painel"`: página de **revista/papel** (fundo creme): título condensado em caixa alta (`head`, palavra em `**negrito**`
+  fica vermelha), **imagem pequena emoldurada** inclinada (`src`; `fy`/`fx` ajustam o recorte), opcionalmente uma
+  **segunda imagem menor** sobreposta (`src2`) e parágrafo serifado justificado (`body`, ~30 a 40 palavras).
+- `"quadro"`: imagem inteira + **foto emoldurada (polaroid) sobreposta** num canto (`"side": "left"|"right"`). Sem `src2`, a
+  polaroid é um zoom no próprio frame (`zoom`, `zx`, `zy` escolhem o detalhe: olhos, mãos, objeto). Legenda embaixo.
+- `"frase"`: imagem escurecida + **aspas gigantes** e frase em serifa itálica (`text`, `autor`). Use no fechamento.
+- sem `layout` (ou `"serie"`): o estilo atual com gancho (`kicker`) + frase gigante + `body`. Texto sempre legível (já tem degradê).
+Enfeites tipográficos usam fontes diferentes de propósito: Anton (condensada), Playfair (serifa itálica) e Poppins.
+Ao escolher imagens para `fantasma`, prefira personagem grande e nítido (o recorte automático precisa separá-lo do fundo).
+
 ## 2-bis. Regras de riqueza visual (pedido do dono: menos genérico, mais texto, mais "enfeite")
 - **Imagem ESPECÍFICA, nunca genérica:** cada slide mostra o personagem/cena citada (ex.: Frieren diante da estátua do
   Himmel, Luffy segurando o Ace). Busque "<personagem> <anime> <cena> screenshot". Proibido usar wallpaper genérico
@@ -56,8 +72,8 @@ Mude também o comprimento: posts de 5, 6, 7 ou 8 slides.
   - `tag`: etiqueta curta em caixa alta com anime e personagem ("Naruto · Jiraiya"); na capa, "5 histórias sobre ...".
   - `head`: 4 a 7 palavras, com 1 trecho em `**negrito**`.
   - `body`: 2 frases (20 a 35 palavras) com 1 ou 2 trechos em `**negrito**` (viram amarelo).
-- **Enfeites automáticos** (config `decor`): moldura dupla, cantos amarelos, @ no topo, contador 01/07, bolinhas de
-  progresso, setinha →, divisor amarelo e degradê escuro atrás do texto. Não desligue.
+- **Enfeite opcional** (`"moldura": true`, máx. 1 slide por post): moldura dupla, cantos amarelos, @ no topo, contador 01/07, bolinhas de
+  progresso, setinha →, divisor amarelo e degradê escuro atrás do texto. Não use em todos os slides.
 - **Posição do texto:** `"pos": "top"` quando o rosto está embaixo; **`"pos": "bottom"` quando o rosto/personagem
   está na parte de cima da imagem** (o degradê escuro acompanha). Nunca deixe o texto cobrir o rosto.
 - Com `body`, o efeito de camadas (texto atrás do personagem) é desligado sozinho; sem `body` ele continua valendo.
